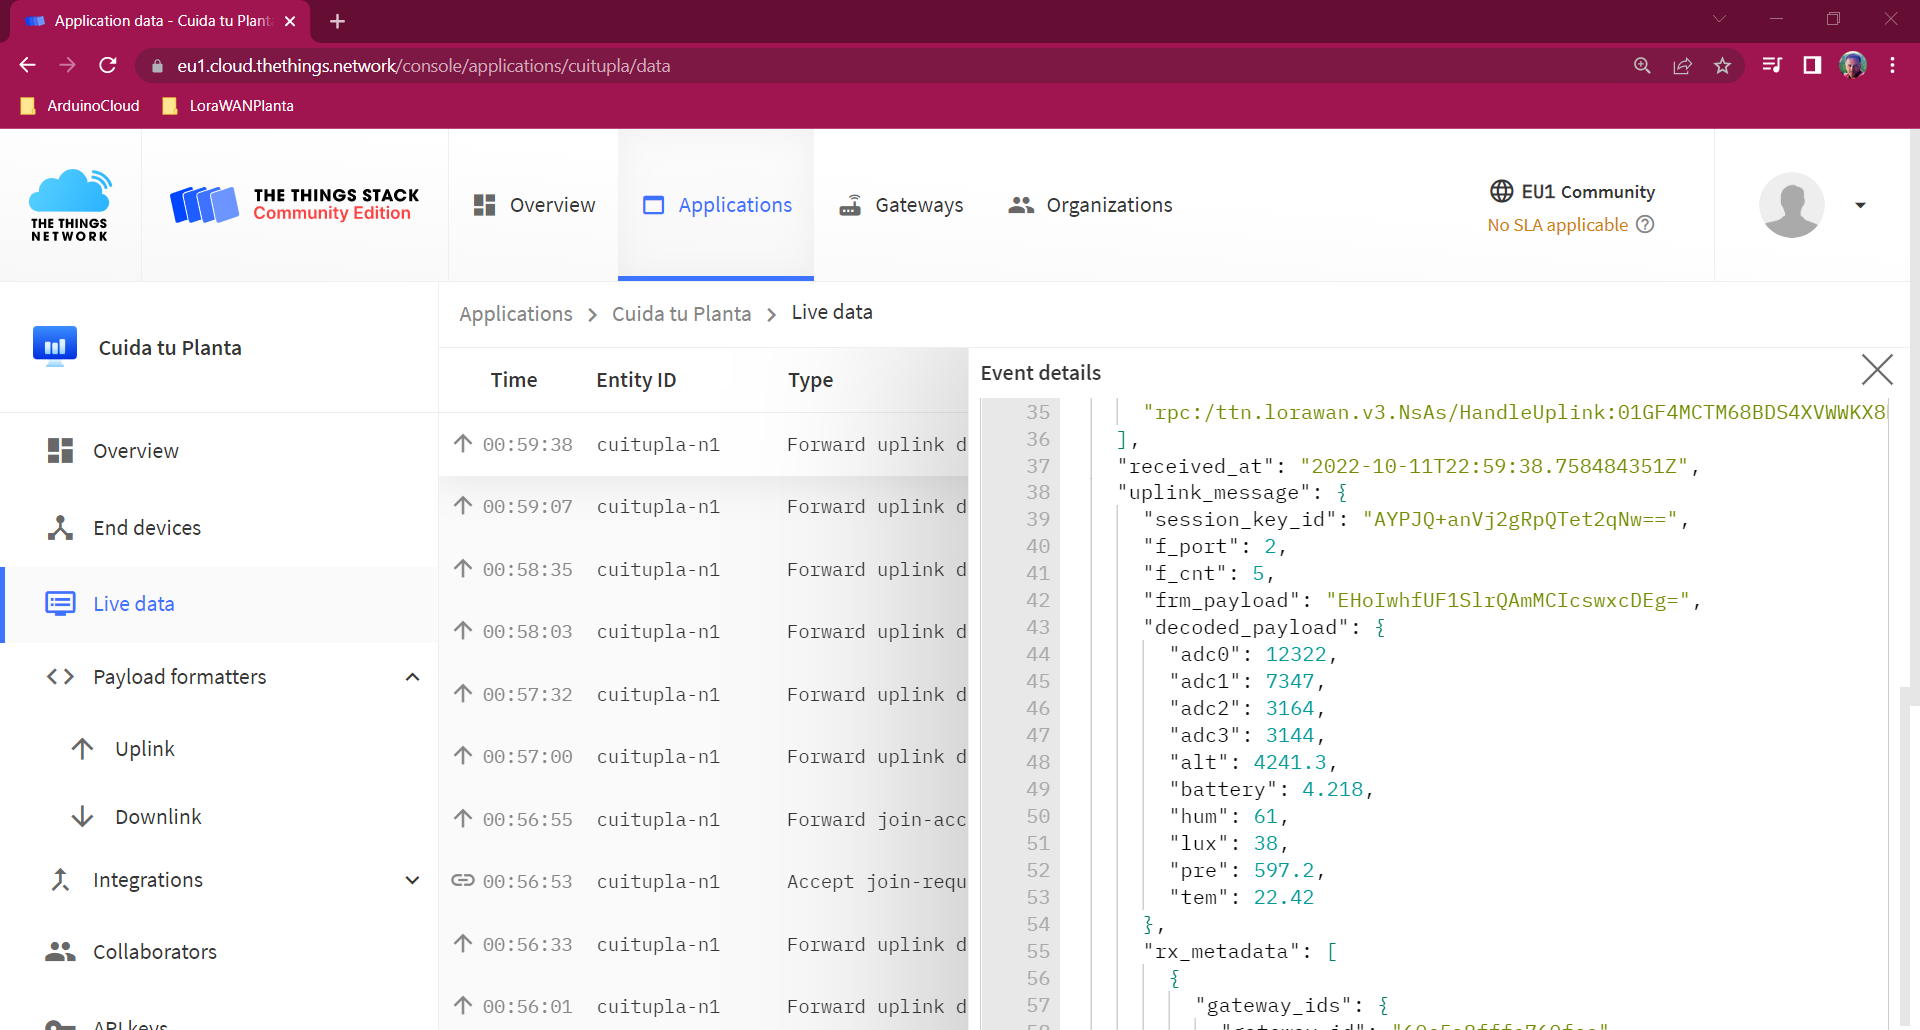
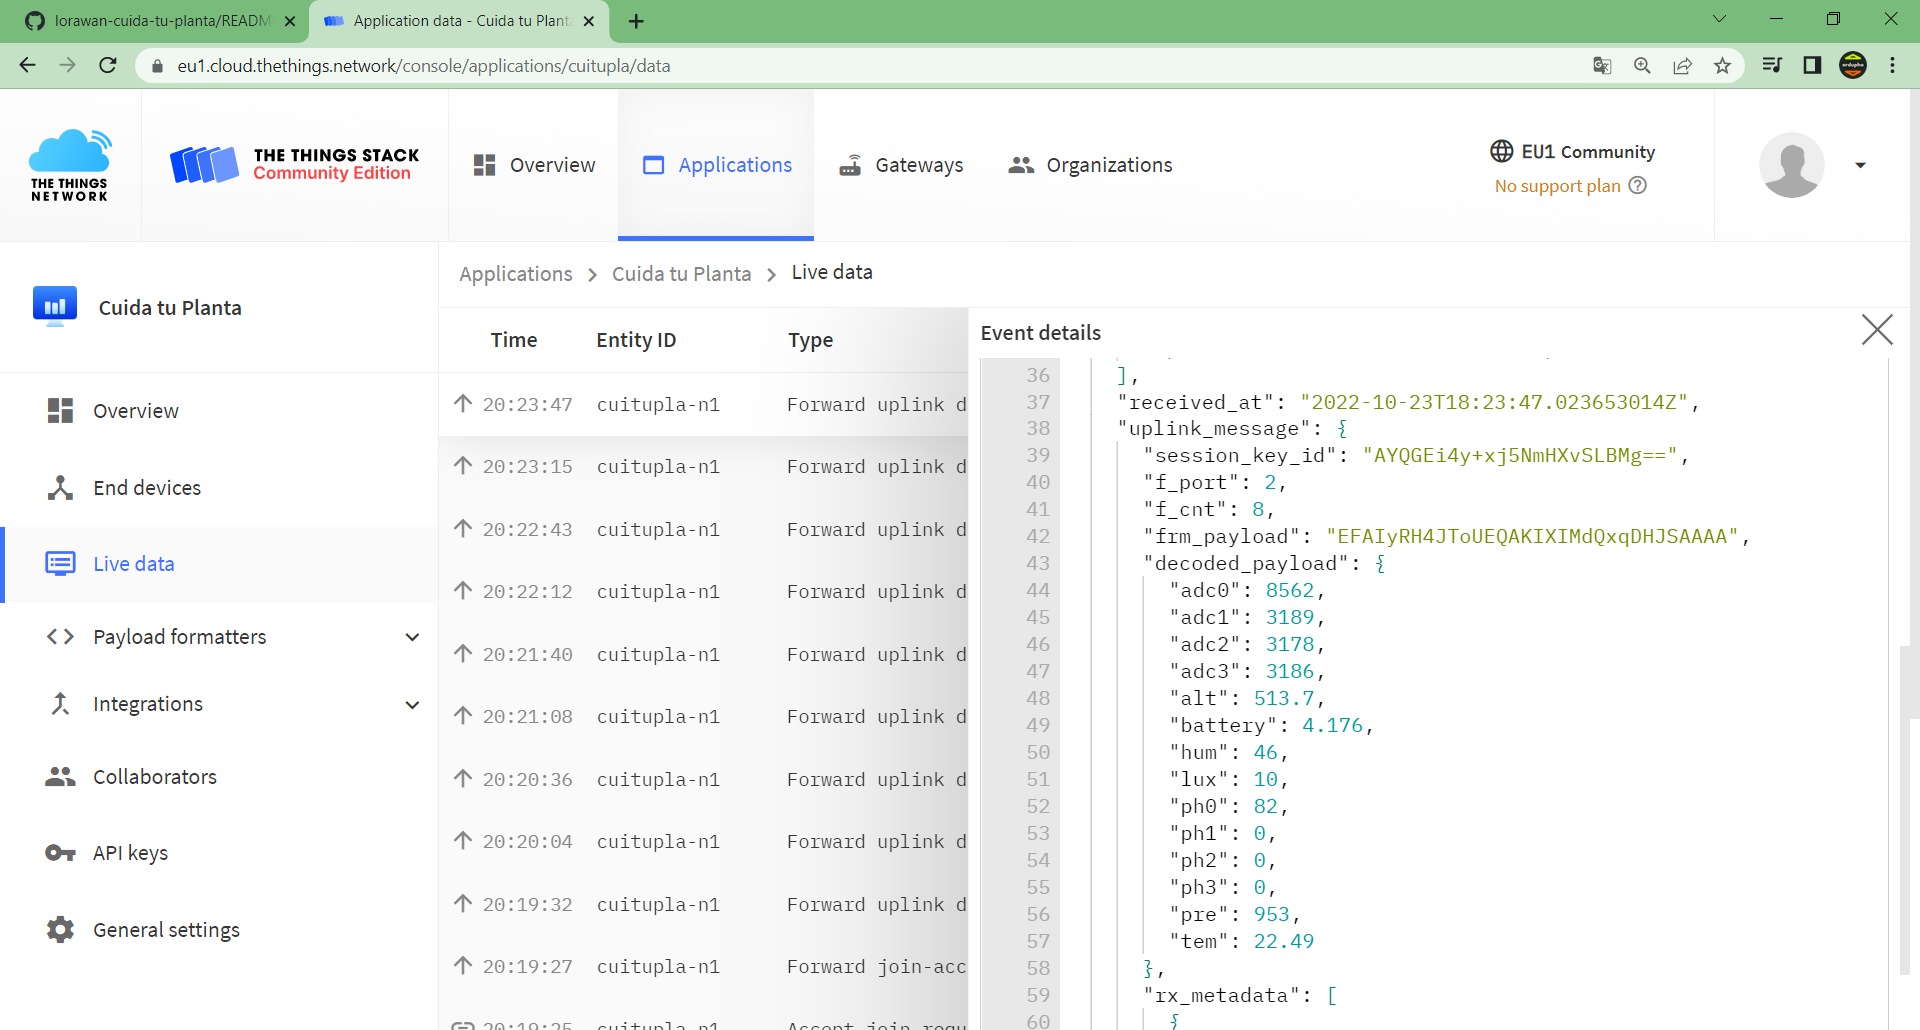
mejoras en sensor de humedad lorawan commit

diff --git a/software/07_sensores_lorawan/src/main.cpp b/software/07_sensores_lorawan/src/main.cpp
@@ -29,6 +29,7 @@ uint16_t int_alti_bme280;
 uint16_t int_lux_bh1750;
 // Variables sensors ads1115
 int16_t int_adc0, int_adc1, int_adc2, int_adc3;
+int8_t int_perHum0, int_perHum1, int_perHum2, int_perHum3;
 
 /*
  * set LoraWan_RGB to Active,the RGB active in loraWan
@@ -108,13 +109,14 @@ void readBatteryVoltage()
 
 void readSensorBME280(void)
 {
-
+	
 	// Start bme280
 	if (!bme280.init())
 	{
 		// debug
 		Serial.println("Device error!");
 	}
+	delay(100);
 
 	// Read sensor BME280
 	Serial.println("");
@@ -163,12 +165,12 @@ void readSensorBH1750(void)
 {
 
 	// Sensor BH1750
-	
 	if (!lightMeter.begin()) {
     	Serial.println("Failed to initialize lightMeter.");
   	} else {
 		Serial.println(F("lightMeter begin"));
 	}
+	delay(100);
 
 	float lux_bh1750 = lightMeter.readLightLevel(); 
 
@@ -205,6 +207,7 @@ void readSensorAds1115(void)
   	} else {
 		Serial.println(F("ADS1115 begin"));
 	}
+	delay(100);
 
 	/* Be sure to update this value based on the IC and the gain settings! */
 	// float   multiplier = 3.0F;    /* ADS1015 @ +/- 6.144V gain (12-bit results) */
@@ -216,11 +219,20 @@ void readSensorAds1115(void)
 	int_adc2 = ads.readADC_SingleEnded(2);
 	int_adc3 = ads.readADC_SingleEnded(3);
 
+	// Percent Humidity only one 
+	int_perHum0 = map(int_adc0, 15400,7100,0,100);
+	int_perHum1 = 0;
+	int_perHum2 = 0;
+	int_perHum3 = 0;
+	
 	Serial.print("AIN0: ");
 	volts0 = ads.computeVolts(int_adc0);
 	Serial.print(volts0);
 	Serial.print(" => ");
 	Serial.print(int_adc0);
+	Serial.print(" ttn ");
+	Serial.print(" PerHum0: ");
+	Serial.print(int_perHum0);
 	Serial.println(" ttn");
 
 	Serial.print("AIN1: ");
@@ -228,13 +240,19 @@ void readSensorAds1115(void)
 	Serial.print(volts1);
 	Serial.print(" => ");
 	Serial.print(int_adc1);
+	Serial.print(" ttn ");
+	Serial.print(" PerHum1: ");
+	Serial.print(int_perHum1);
 	Serial.println(" ttn");
-	
+
 	Serial.print("AIN2: ");
 	volts2 = ads.computeVolts(int_adc2);
 	Serial.print(volts2);
 	Serial.print(" => ");
 	Serial.print(int_adc2);
+	Serial.print(" ttn ");
+	Serial.print(" PerHum2: ");
+	Serial.print(int_perHum2);
 	Serial.println(" ttn");
 
 	Serial.print("AIN3: ");
@@ -242,6 +260,9 @@ void readSensorAds1115(void)
 	Serial.print(volts3);
 	Serial.print(" => ");
 	Serial.print(int_adc3);
+	Serial.print(" ttn ");
+	Serial.print(" PerHum0: ");
+	Serial.print(int_perHum0);
 	Serial.println(" ttn");
 
 }
@@ -251,6 +272,7 @@ void readSensors()
 	// Vext ON
 	pinMode(Vext, OUTPUT);
 	digitalWrite(Vext, LOW);
+
 	delay(1000);
 	// debug
 	Serial.println("");
@@ -280,7 +302,7 @@ static void prepareTxFrame(uint8_t port)
 	readBatteryVoltage();
 	readSensors();
 
-	appDataSize = 20;
+	appDataSize = 24;
 	// Battery
 	appData[0] = (uint8_t)(BatteryVoltage >> 8);
 	appData[1] = (uint8_t)BatteryVoltage;
@@ -308,7 +330,11 @@ static void prepareTxFrame(uint8_t port)
 	appData[17] = (uint8_t)int_adc2;
 	appData[18] = (uint8_t)(int_adc3 >> 8);
 	appData[19] = (uint8_t)int_adc3;
-
+	// Ads1115 percent humidity 
+	appData[20] = (uint8_t)int_perHum0;
+	appData[21] = (uint8_t)int_perHum1;
+	appData[22] = (uint8_t)int_perHum2;
+	appData[23] = (uint8_t)int_perHum3;
 	
 }
 

diff --git a/software/07_sensores_lorawan/README.md b/software/07_sensores_lorawan/README.md
@@ -19,6 +19,7 @@ El ciclo de trabajo de la aplicación es el siguiente:
 4. Se despierta, lee los sensores y vuelve a enviar los datos.
 5. Los pasos 3 y 4 se repiten hasta que la batería se agota o se resetea el dispositivo.
 
+![](/software/docs/Result_lorawan_sensores.PNG)
 
 Ejemplo en The Things Stack: 
 
